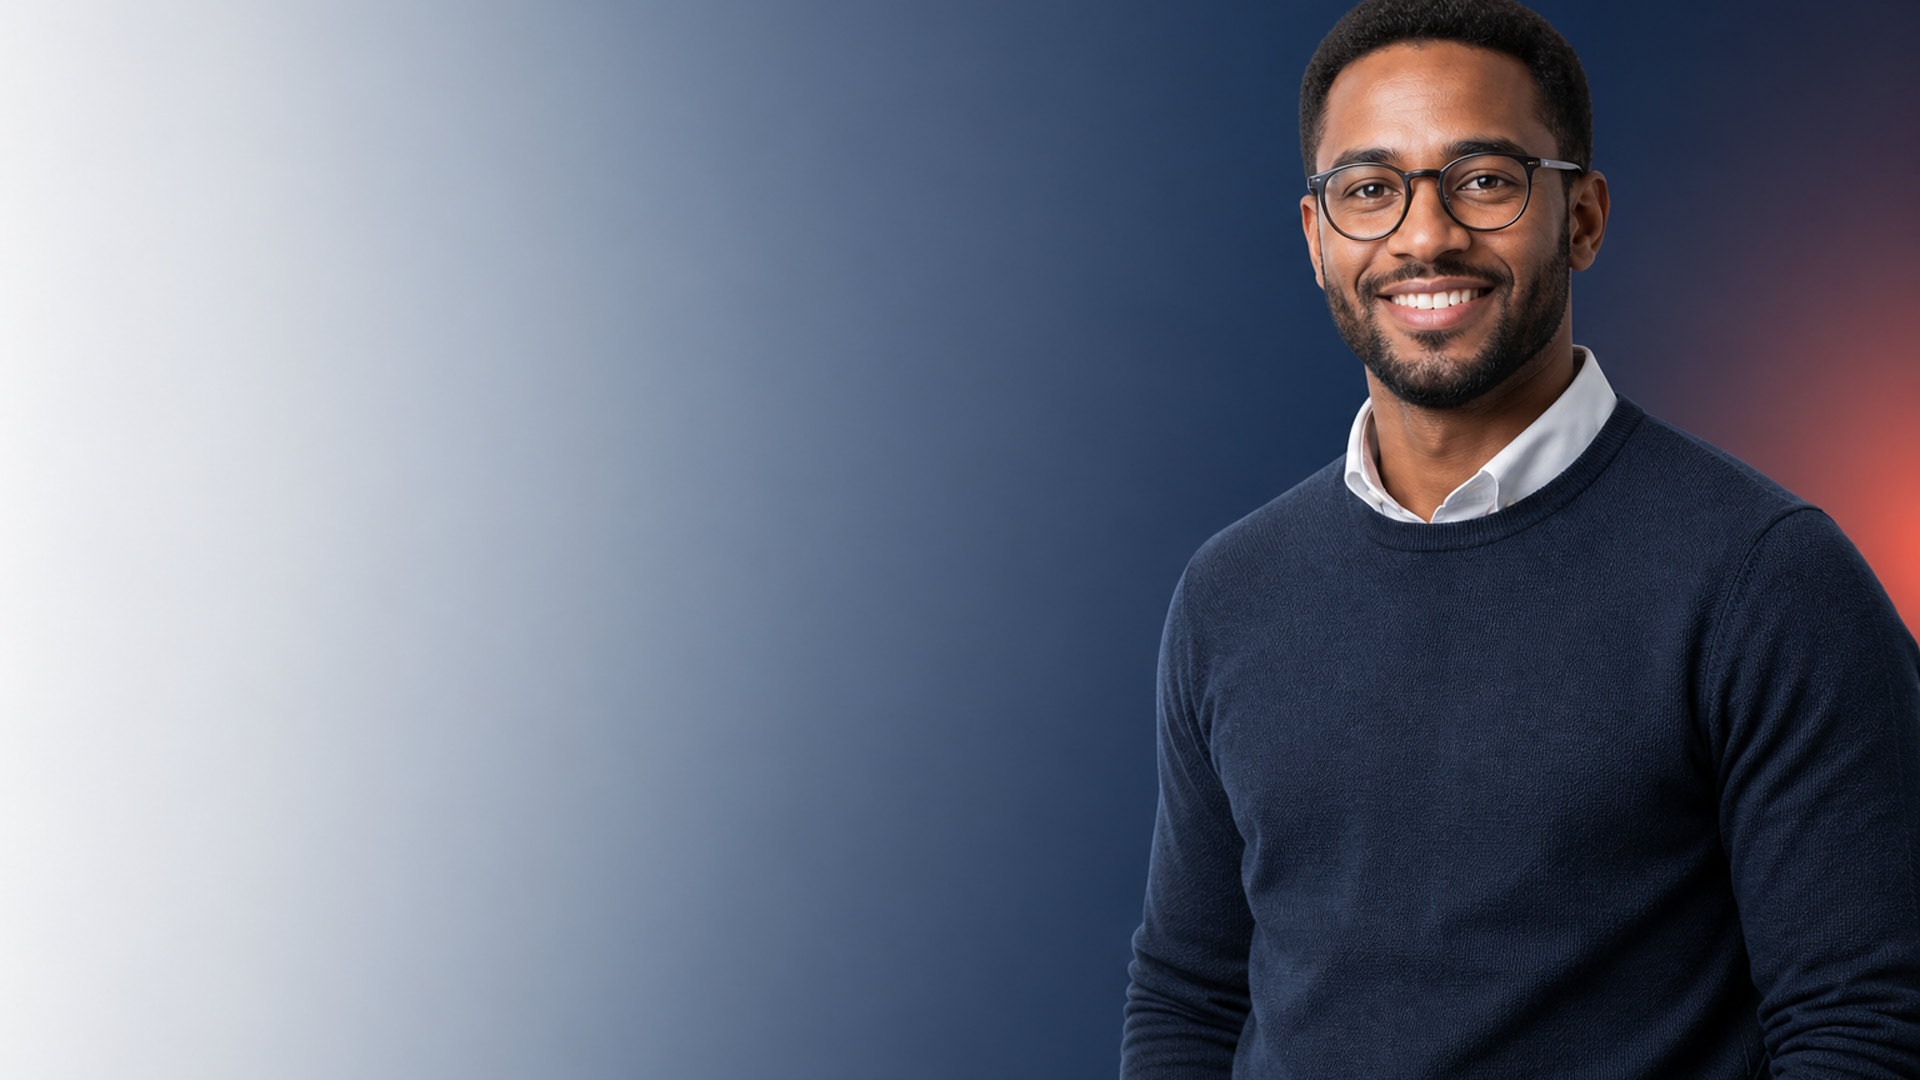
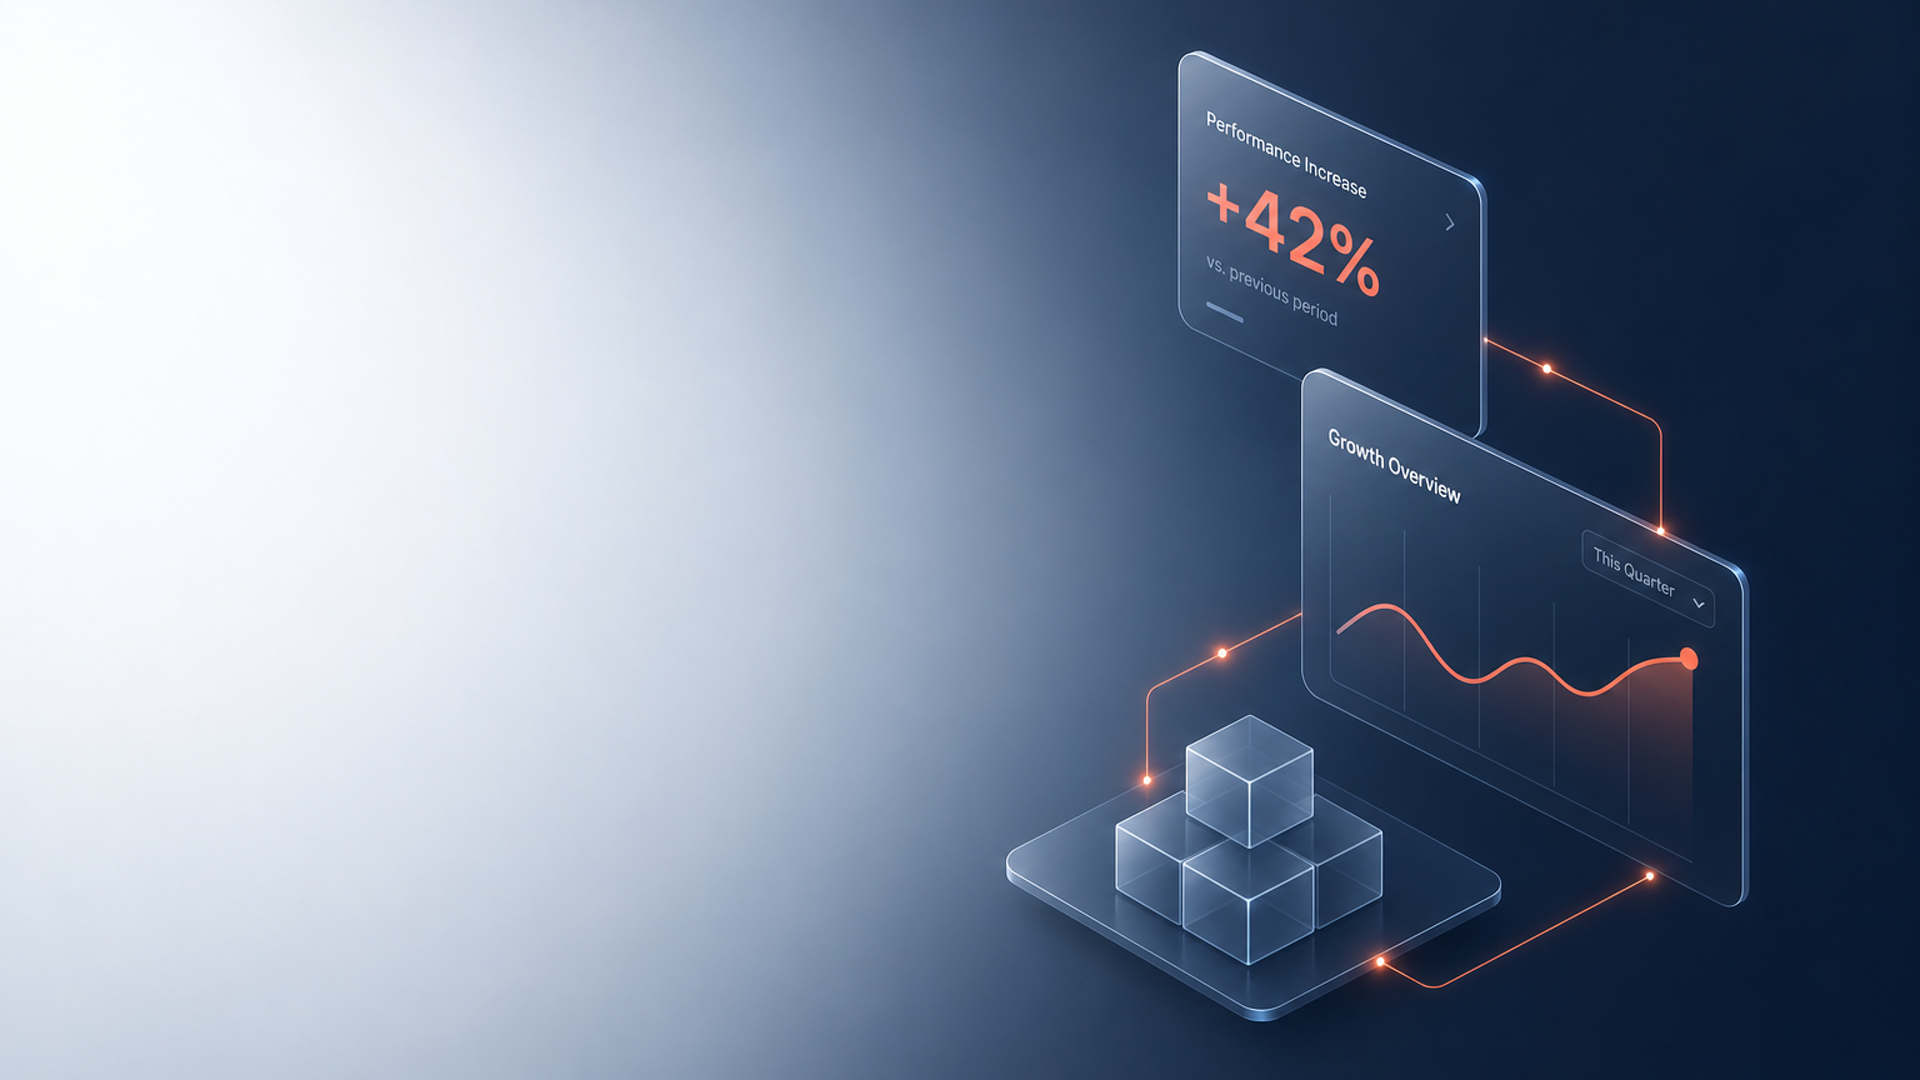
Replace hero with simpler isometric glass dashboard background
Generate a minimal version of the enterprise glassmorphism hero: two KPI
panels, simple cube stack, and sparse coral connection lines on the right
with a clean soft-cloud left zone for copy.

diff --git a/components/hero-section.tsx b/components/hero-section.tsx
@@ -43,12 +43,12 @@ export function HeroSection() {
         fill
         priority
         sizes="100vw"
-        className="object-cover object-[72%_center] lg:object-right"
+        className="object-cover object-right"
         aria-hidden="true"
       />
 
       <div
-        className="pointer-events-none absolute inset-0 bg-[linear-gradient(90deg,rgba(244,246,249,0.15)_0%,transparent_42%)]"
+        className="pointer-events-none absolute inset-0 bg-[linear-gradient(90deg,rgba(244,246,249,0.2)_0%,transparent_48%)]"
         aria-hidden="true"
       />
 